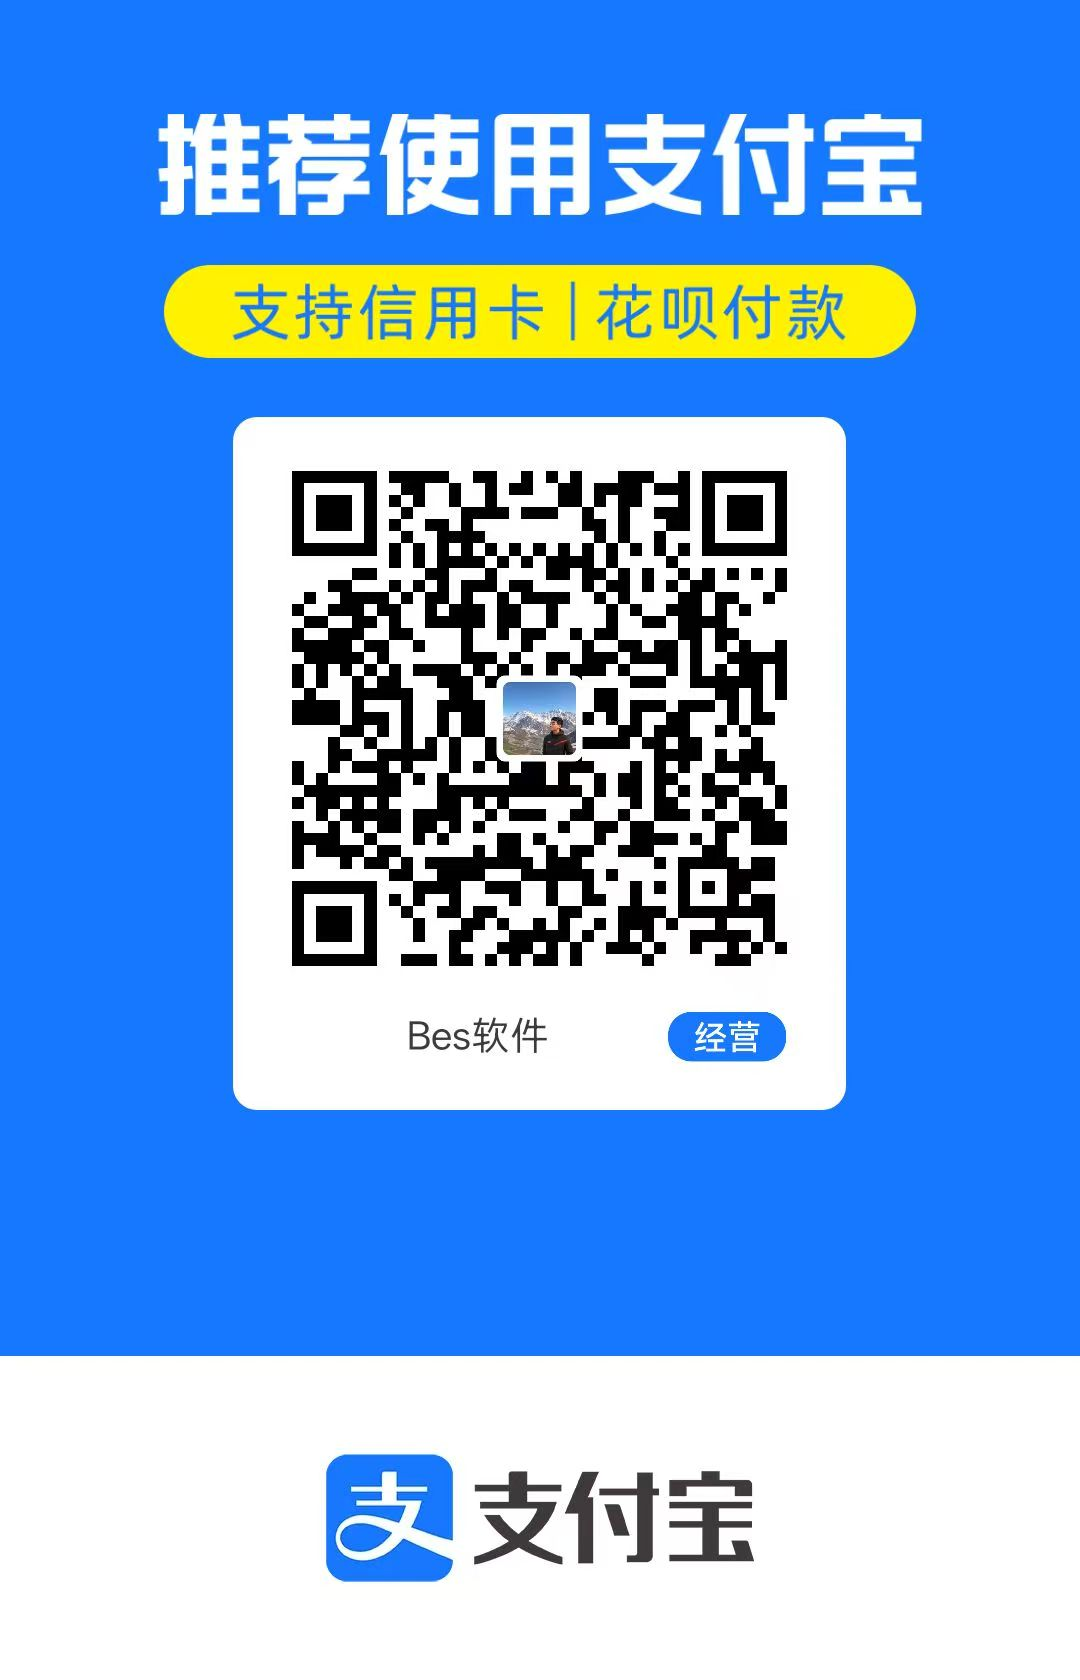
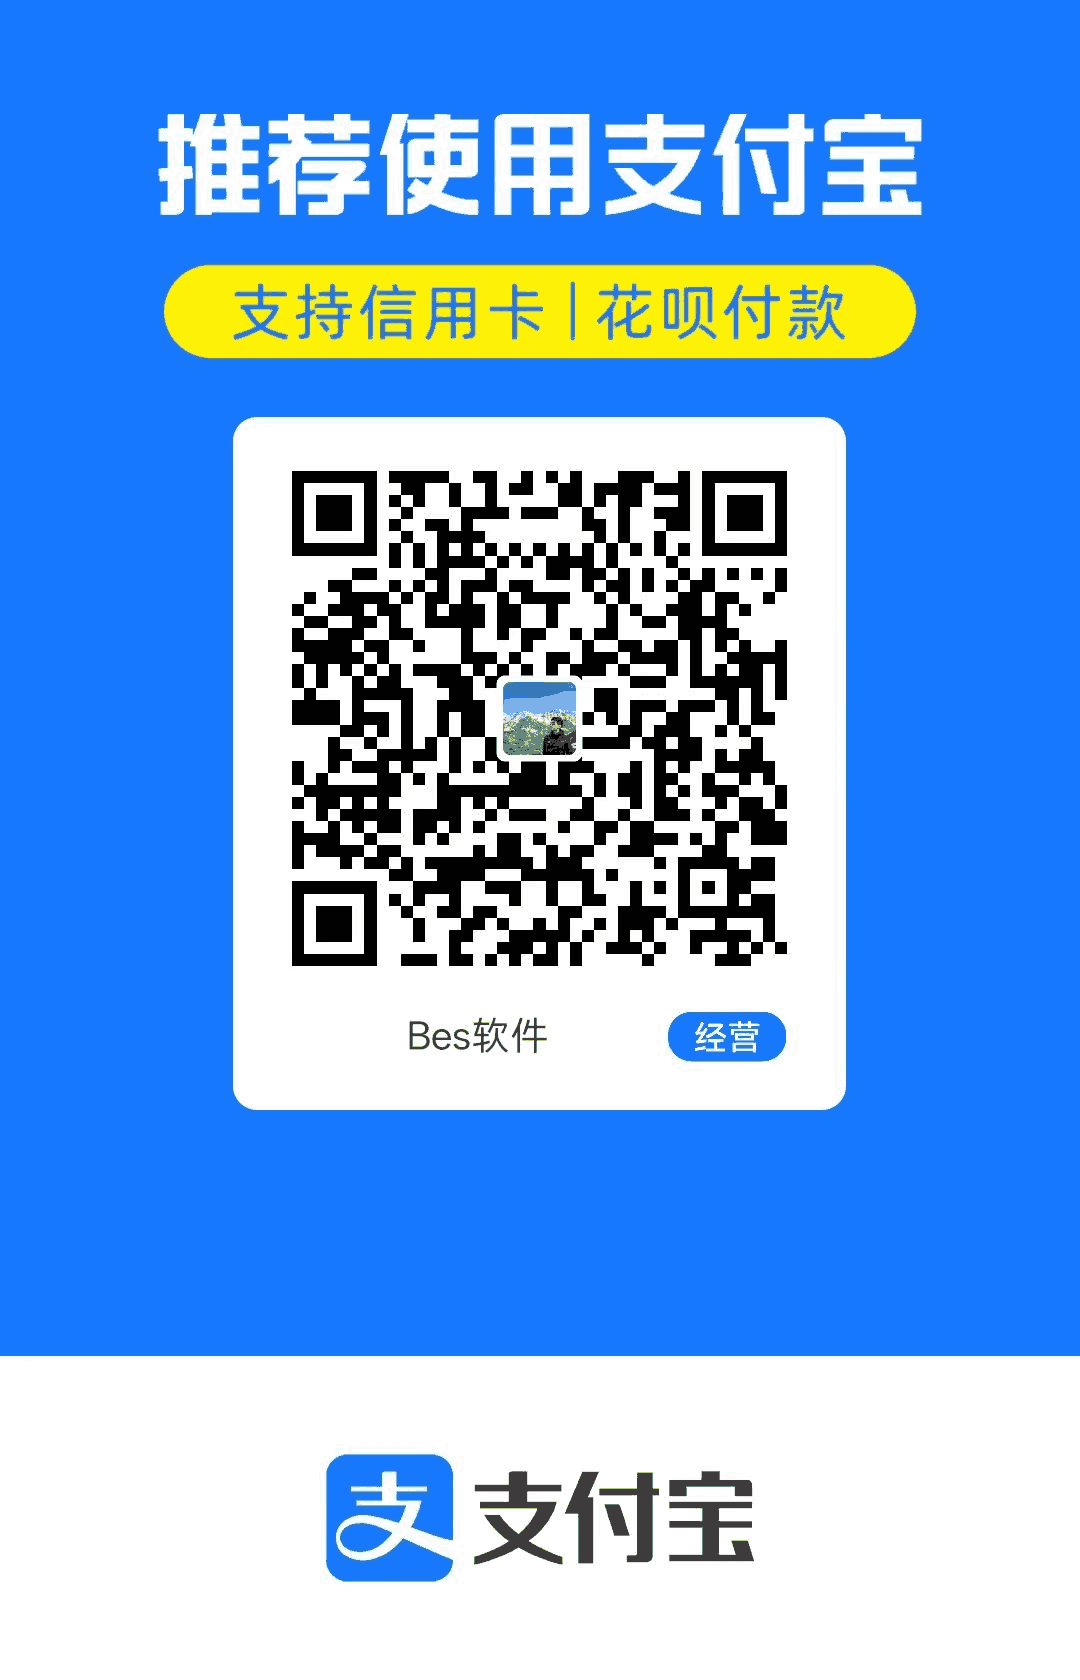
perf: 缩小工具页的收款图片
- 支持入口改用作者实测确认的减色 PNG，两张合计缩至 87360 字节。
- 保留等比展示、收款主体与下载方式，按新资源更新校验摘要。
- 通过静态构建、单元测试和支持入口浏览器回归。

Changed region(s): [[0.2139, 0.1548, 0.7944, 0.2167], [0.4583, 0.4024, 0.55, 0.4643]]

diff --git a/docs/SUPPORT.md b/docs/SUPPORT.md
@@ -12,14 +12,14 @@
 
 桌面居中弹窗，窄屏底部卡片。关闭按钮保持可见，支持 Esc、遮罩关闭、焦点循环与返回入口；仅当按下和释放都在遮罩上才关闭，避免滚动或拖拽图片时误触。保存原图按钮位于图片之前，可另开原图；同一部手机可保存后在支付应用中从相册识别。
 
-## 收款原图
+## 收款图片
 
-按作者本次同意的方案，`assets/support/wechat.png` 和 `assets/support/alipay.png` 从 BesSoftware 同名资源逐字节复制，用于 BesTools 的自愿支持入口。没有裁剪、重绘或替换二维码、平台标识、留白与收款主体；原图完整等比展示。
+`assets/support/wechat.png` 和 `assets/support/alipay.png` 与 BesSoftware 同名资源使用同一对经作者实测确认的减色 PNG。图片完整等比展示，保留原始尺寸、二维码内容、平台标识、留白与收款主体。
 
 | 图片 | 尺寸 | 可见收款主体 | SHA-256 |
 | --- | --- | --- | --- |
-| wechat.png | 1266 × 1749 | Benson(**城) | A89AD9F33ECC5B9BC6A6BF5587FA16CD04809D3BFBCAAC58A0731FACEAE41449 |
-| alipay.png | 1080 × 1680 | Bes软件 | 5F5722D5A30ECBD5D51684A2051EB40961070C8954A2F3B3EEF403F526F367D4 |
+| wechat.png | 1266 × 1749 | Benson(**城) | 99B2B2CA2BA9C7FA7C8E15F45781DD9F578329249A016C99E111B7635103016E |
+| alipay.png | 1080 × 1680 | Bes软件 | 28D6B3E7449860DB5E28E8D4E1B89B0C5B55FC5D96478765A0E3028570023549 |
 
 收款图片归作者，不因代码公开而授予第三方用于其收款页面的权利。付款前在支付应用中确认实际收款人，金额由使用者决定。
 

diff --git a/docs/RIGHTS.md b/docs/RIGHTS.md
@@ -10,7 +10,7 @@ Bes 名称、标识和作者个人品牌内容属于作者。MIT 代码许可不
 
 ## 自愿支持收款图片
 
-`assets/support/wechat.png` 和 `assets/support/alipay.png` 按作者要求，从 BesSoftware 同名原图逐字节复制，用于 BesTools 自愿支持入口。图片归作者，不因代码采用 MIT 而授予第三方用于其收款页面的权利。
+`assets/support/wechat.png` 和 `assets/support/alipay.png` 与 BesSoftware 同名资源使用同一对经作者实测确认的减色 PNG，用于 BesTools 自愿支持入口。图片归作者，不因代码采用 MIT 而授予第三方用于其收款页面的权利。
 
 图片完整等比展示，没有裁剪、重绘二维码或更换平台标识、留白与收款主体。可见收款主体为微信 `Benson(**城)`、支付宝 `Bes软件`；来源、尺寸与 SHA-256 摘要见 [支持入口说明](SUPPORT.md)。
 
